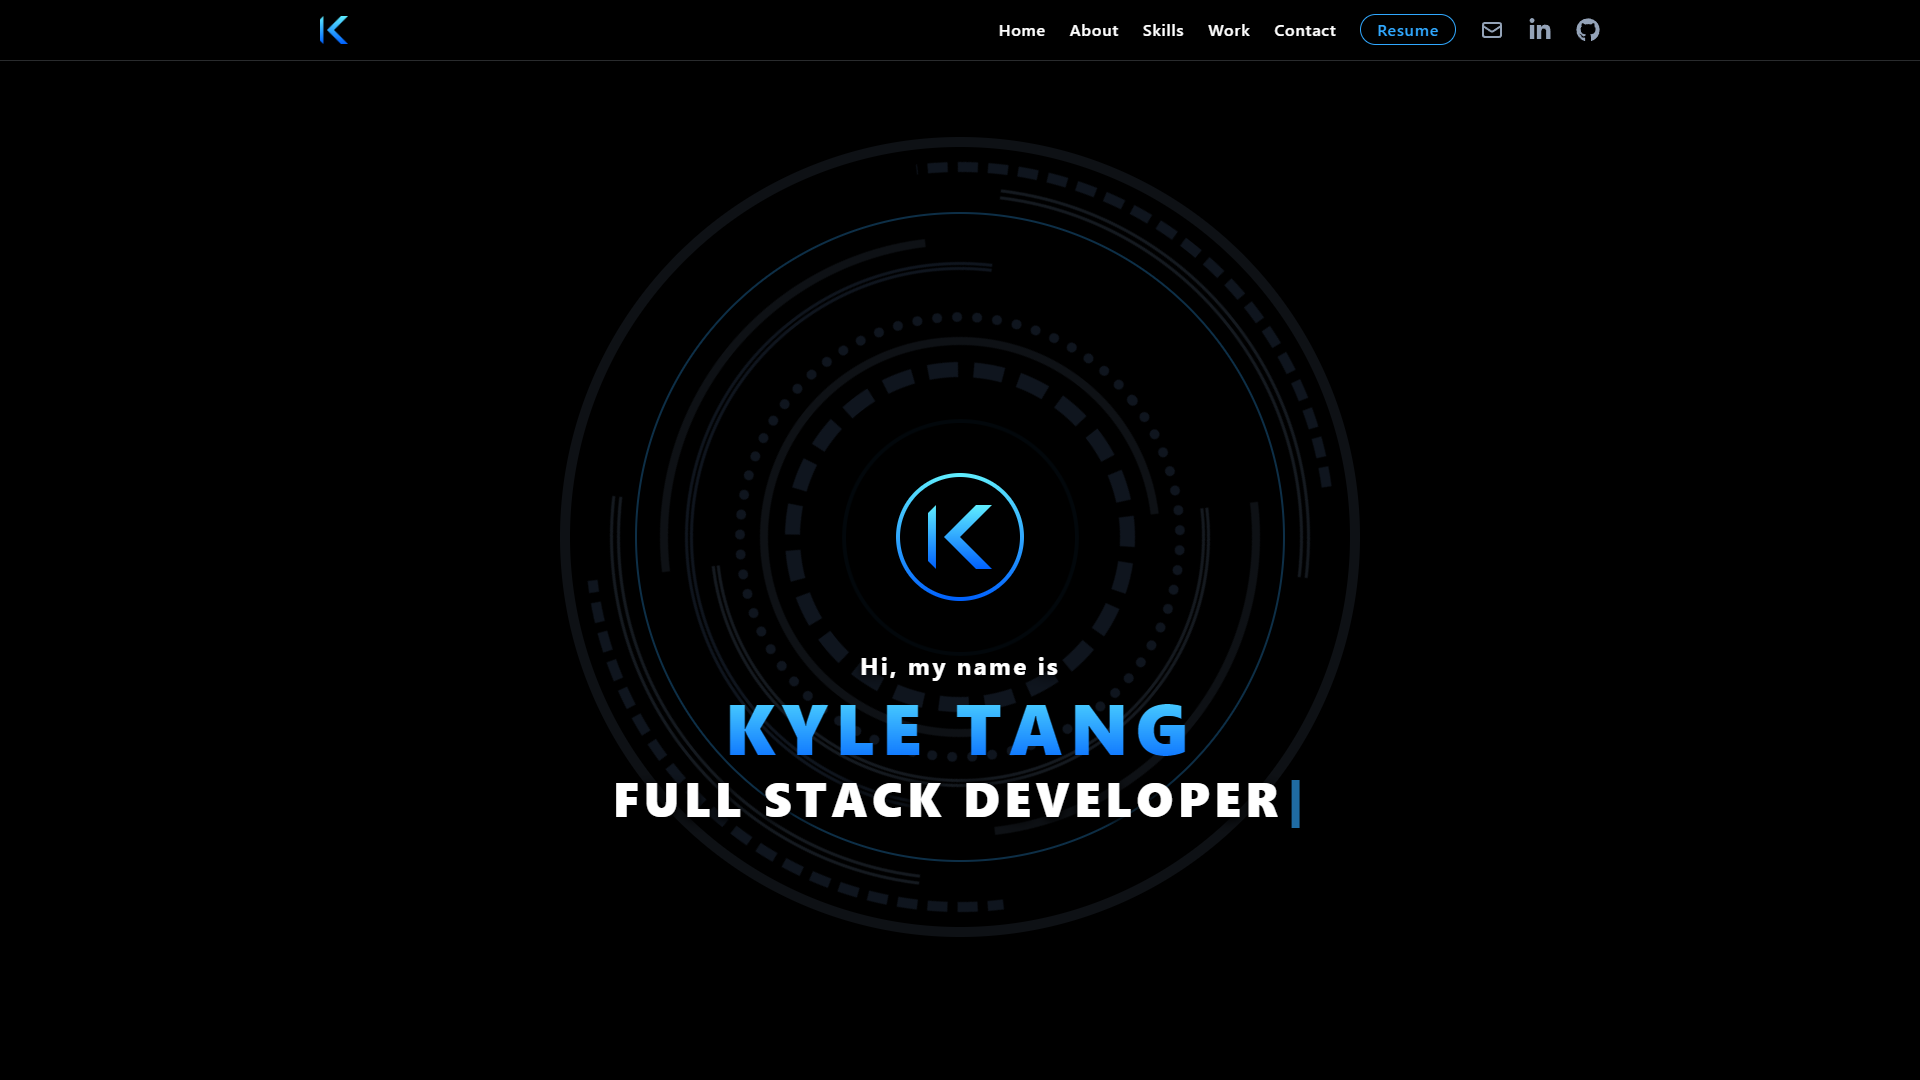
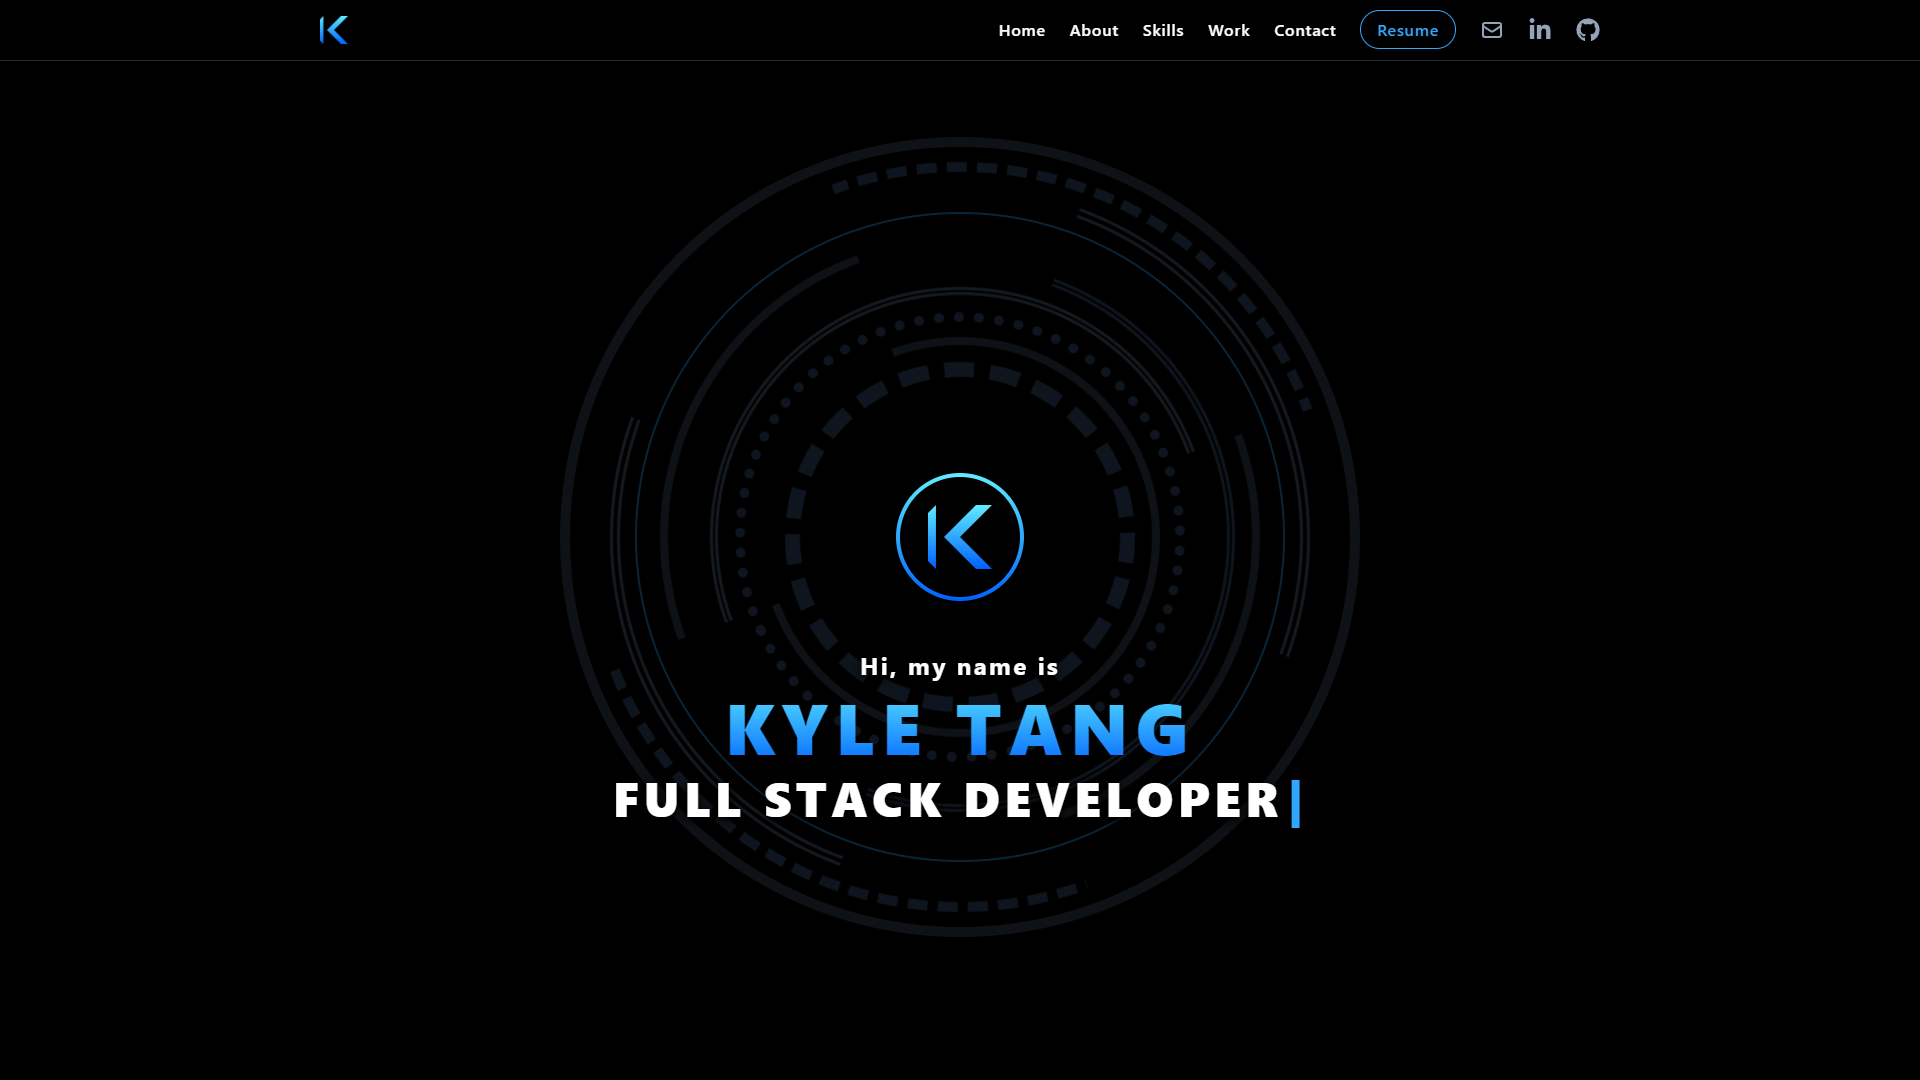
adjusted padding to buttons

diff --git a/styles/globals.css b/styles/globals.css
@@ -25,7 +25,7 @@
     @apply transition ease-in-out duration-300;
   }
   .custom-btn {
-    @apply py-2 px-6 flex border-2 border-primary hover:bg-primary rounded-full text-center text-lg font-semibold text-primary hover:text-black;
+    @apply py-2.5 px-6 flex border-2 border-primary hover:bg-primary rounded-full text-center text-lg font-semibold text-primary hover:text-black;
   }
   .custom-social-btn {
     @apply p-2 rounded-full border-2 border-slate-500 hover:border-primary text-2xl text-slate-400 hover:text-primary;

diff --git a/components/Header.tsx b/components/Header.tsx
@@ -90,7 +90,7 @@ const Header = (props: Props) => {
           <li>
             <Link
               href={resumeLink}
-              className="py-1 px-4 rounded-full border border-primary hover:bg-primary text-primary hover:text-black custom-transition"
+              className="py-2 px-4 rounded-full border border-primary hover:bg-primary text-primary hover:text-black custom-transition"
             >
               Resume
             </Link>

diff --git a/components/Contact.tsx b/components/Contact.tsx
@@ -133,7 +133,7 @@ const Contact = (props: Props) => {
             {/* Submit button */}
             <button
               type="submit"
-              className="mx-auto px-8 mt-8 custom-btn custom-transition group"
+              className="mx-auto mt-8 custom-btn px-8 custom-transition group"
             >
               Submit
               <span className="ml-2 mt-1.5 text-primary group-hover:text-black custom-transition">
